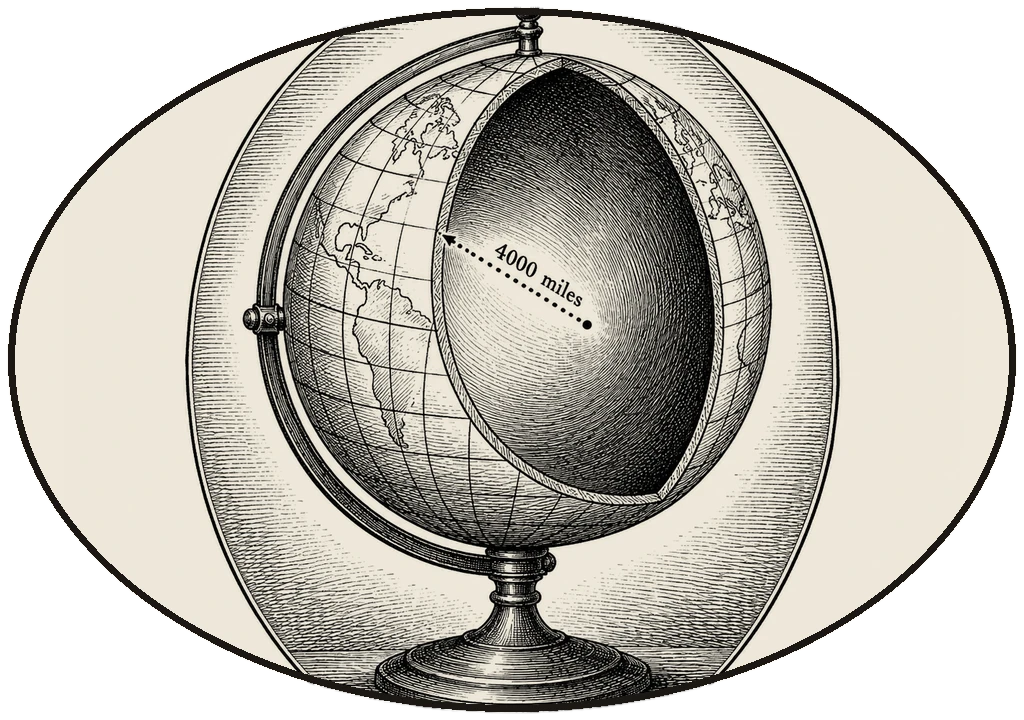
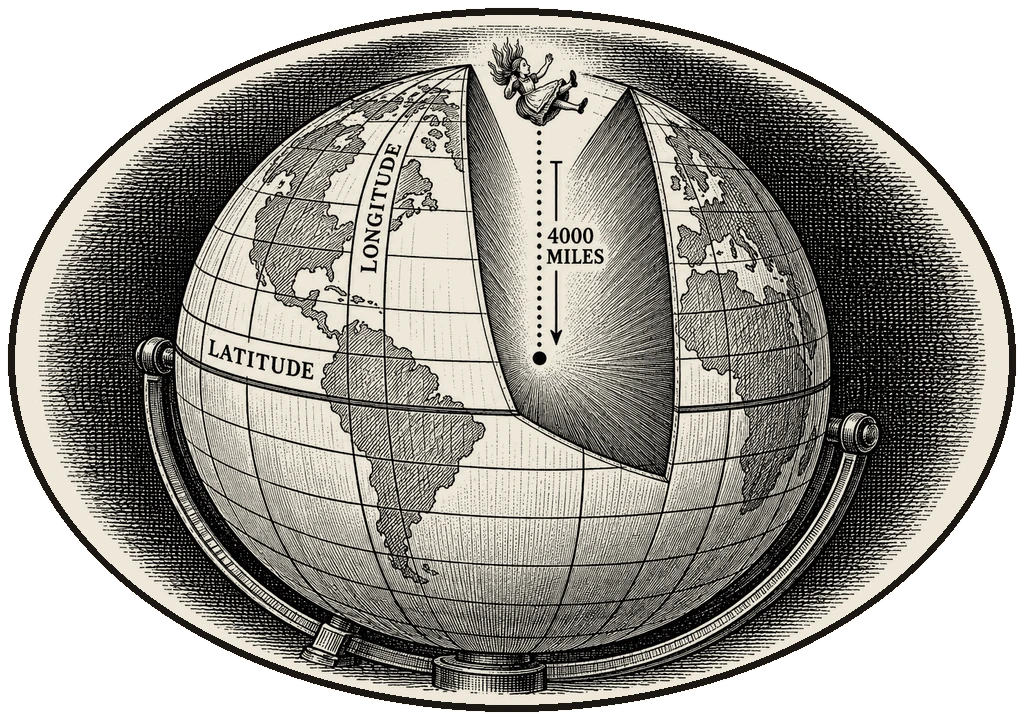
Chapter I: the globe thought remade, showing latitude, longitude and the 4000 miles to the centre (owner)
Claude-Session: https://claude.ai/code/session_01JLwjHTre9qSRtmM6Ke648R

diff --git a/tools/ch1_art.py b/tools/ch1_art.py
@@ -82,13 +82,8 @@ def main():
     for n in ("dinah", "bats", "stairs", "histories", "knife", "poison", "candle", "telescope", "croquet"):
         ch2_art.vignette(f"vignette_{n}", n)
     ch2_art.vignette("vignette_poker", "poker", paint=red_hot)
-    # The globe drawing has its caption printed under the oval: crop it off first.
-    with tempfile.TemporaryDirectory() as d:
-        Image.open("source/ai/vignette_globe.webp").crop((0, 0, 1254, 1100)).save(f"{d}/vignette_globe.png")
-        own = ch2_art.src
-        ch2_art.src = lambda name: f"{d}/{name}.png" if name == "vignette_globe" else own(name)
-        ch2_art.vignette("vignette_globe", "globe")
-        ch2_art.src = own
+    # The globe: latitude, longitude and the 4000 miles to the centre (remade 2026-10-14, owner).
+    ch2_art.vignette("vignette_globe", "globe")
     # The garden inside the passage's far arch (source pixels, 1024x1536), paper-tinted.
     g = Image.open("source/ai/garden_through_door.png").convert("L").crop((392, 292, 806, 1080))
     rgb = (np.asarray(g, np.float32)[..., None] / 255.0 * PAPER).astype(np.uint8)

diff --git a/PROVENANCE.md b/PROVENANCE.md
@@ -141,7 +141,7 @@ Every shipped asset is listed here with its source. AI-generated or AI-modified 
 | ai_hall_ceiling | `public/art/ai/walls/hall_ceiling.webp` | AI | Generated in the same conversation (docs/ASSETS_MASTER.md, Chapter I prompt 42); original in `source/ai/hall_ceiling.webp` | OpenAI ChatGPT (GPT-6 chat); OpenAI image generation, exact image model not disclosed; received 2026-10-12 | Whole image generated. Paper-tinted; repeats every 3 m on the hall ceiling (`tools/walls.py`). Chapters I, II, III, VII. | 2026-10-12 | Owner (generated), Claude Code (processed) |
 | ai_rabbit_sheet | `public/art/ai/ch1/rabbit_watch.webp`, `rabbit_trot.webp`, `rabbit_back.webp` | AI | The White Rabbit after Tenniel (owner's sheet, 2026-10-12); original in `source/ai/rabbit_sheet.webp` | OpenAI ChatGPT (GPT-6 chat); OpenAI image generation, exact image model not disclosed; received 2026-10-12 | Whole image generated. Split into three figures, cut out and paper-tinted; the eyes tinted pink (COLOR.md) (`tools/ch1_art.py`). Used in Chapter I: watch (standing) and trot (moving) on the riverbank and in the passage; the back view is kept for later. | 2026-10-12 | Owner (generated), Claude Code (processed) |
 | ai_vignette_stairs | `public/art/ai/vignettes/stairs.webp` | AI | Generated in the same conversation (docs/ASSETS_MASTER.md, Chapter I prompt 37); original in `source/ai/vignette_stairs.webp` | OpenAI ChatGPT (GPT-6 chat); OpenAI image generation, exact image model not disclosed; received 2026-10-12 | Whole image generated (with its own speech bubble). Paper-tinted, fitted to the thought oval (`tools/ch1_art.py`). Used in Chapter I, the fall. | 2026-10-12 | Owner (generated), Claude Code (processed) |
-| ai_vignette_globe | `public/art/ai/vignettes/globe.webp` | AI | Generated in the same conversation (docs/ASSETS_MASTER.md, Chapter I prompt 38); original in `source/ai/vignette_globe.webp` | OpenAI ChatGPT (GPT-6 chat); OpenAI image generation, exact image model not disclosed; received 2026-10-12 | Whole image generated. The caption printed below the oval cropped off; paper-tinted, fitted to the thought oval (`tools/ch1_art.py`). Used in Chapter I, the fall. | 2026-10-12 | Owner (generated), Claude Code (processed) |
+| ai_vignette_globe | `public/art/ai/vignettes/globe.webp` | AI | Chapter I prompt 38, remade (owner, 2026-10-14) to show latitude, longitude and the 4000 miles to the centre; original `source/ai/vignette_globe.png` | OpenAI gpt-image-2.5-sunburst via the API (generated by Claude Code, 2026-10-14) | Whole image generated. Paper-tinted, fitted to the thought oval (`tools/ch1_art.py`). Used in Chapter I, the fall. | 2026-10-14 | Owner (requested), Claude Code (generated, processed) |
 | ai_alice3_call_v2 | `public/art/ai/poses/call.webp` | AI | Second version of Chapter III prompt 7; original in `source/ai/alice3_call_v2.webp` | OpenAI ChatGPT (GPT-6 chat); OpenAI image generation, exact image model not disclosed; received 2026-10-12 | Whole image generated. Cut out, paper-tinted and scaled to the standing Alice (`tools/compose_poses.py`). Replaces the first version (kept as a spare). | 2026-10-12 | Owner (generated), Claude Code (processed) |
 | ai_alice6_poses | `public/art/ai/poses/peep.webp`, `laugh`, `knock`, `sneeze`, `baby`, `pig`, `terror`, `back`, `catch` | AI | Chapter VI prompts 1–9; originals in `source/ai/alice6_*.png`, from the model sheet `source/ai/alice_turnaround.webp` (with Tenniel's plates 6.3 and 6.4 cropped to Alice for the baby, pig and from-behind poses: `source/plates/tenniel_w06-3_alice_only.png`, `tenniel_w06-4_alice_back_only.png`) | OpenAI gpt-image-2.5-sunburst via the API (generated by Claude Code, 2026-10-14) | Whole images generated. Cut out, paper-tinted and scaled to the standing Alice with `tools/compose_poses.py`. Used in Chapter VI. | 2026-10-14 | Owner (approved), Claude Code (generated, processed) |
 | ai_alice_walk_pair | `public/art/ai/poses/walk_a.webp`, `walk_b.webp` | AI | Alice walking, two matching steps in one drawing (owner, 2026-10-13); original in `source/ai/alice_walk_pair.webp` | OpenAI ChatGPT (GPT-6 chat); OpenAI image generation, exact image model not disclosed; received 2026-10-13 | Whole image generated. Split in two, cut out, paper-tinted and scaled to the standing Alice (`tools/compose_poses.py`). Replaces the earlier walk_a and the walk_b phone screenshot (both kept in source/ai). | 2026-10-13 | Owner (generated), Claude Code (processed) |
